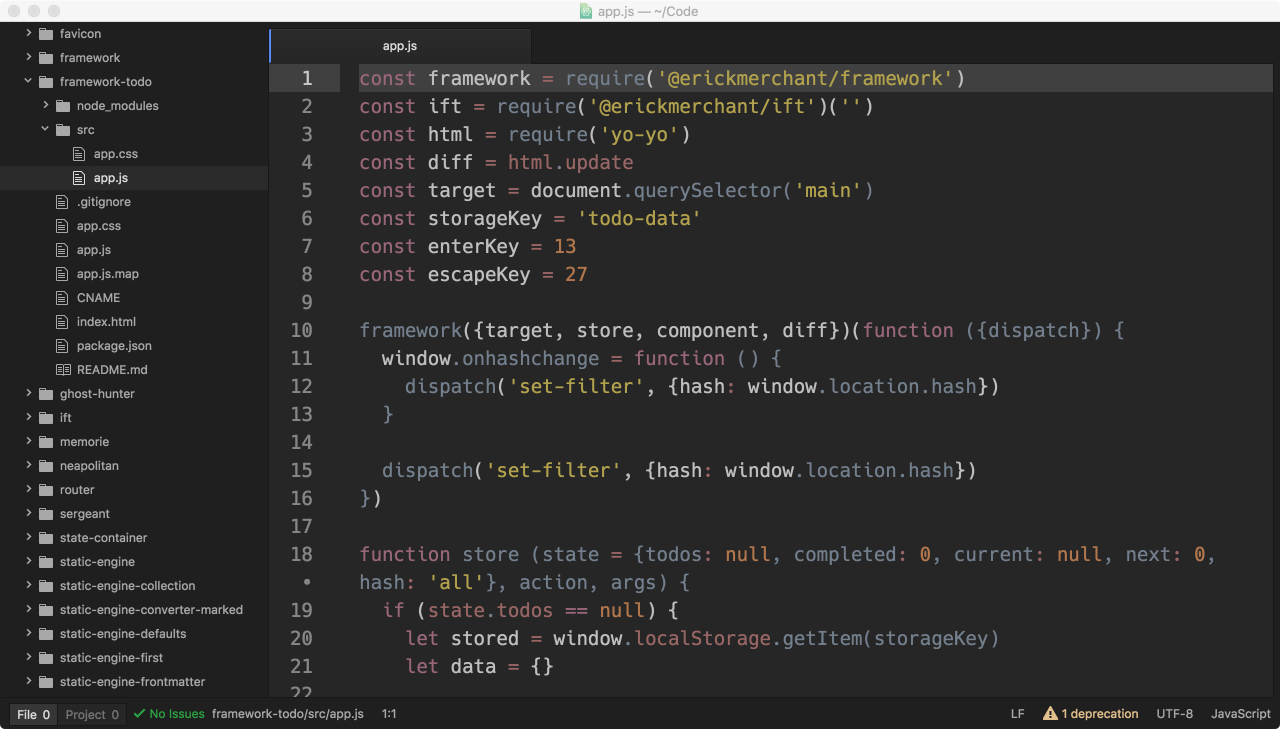
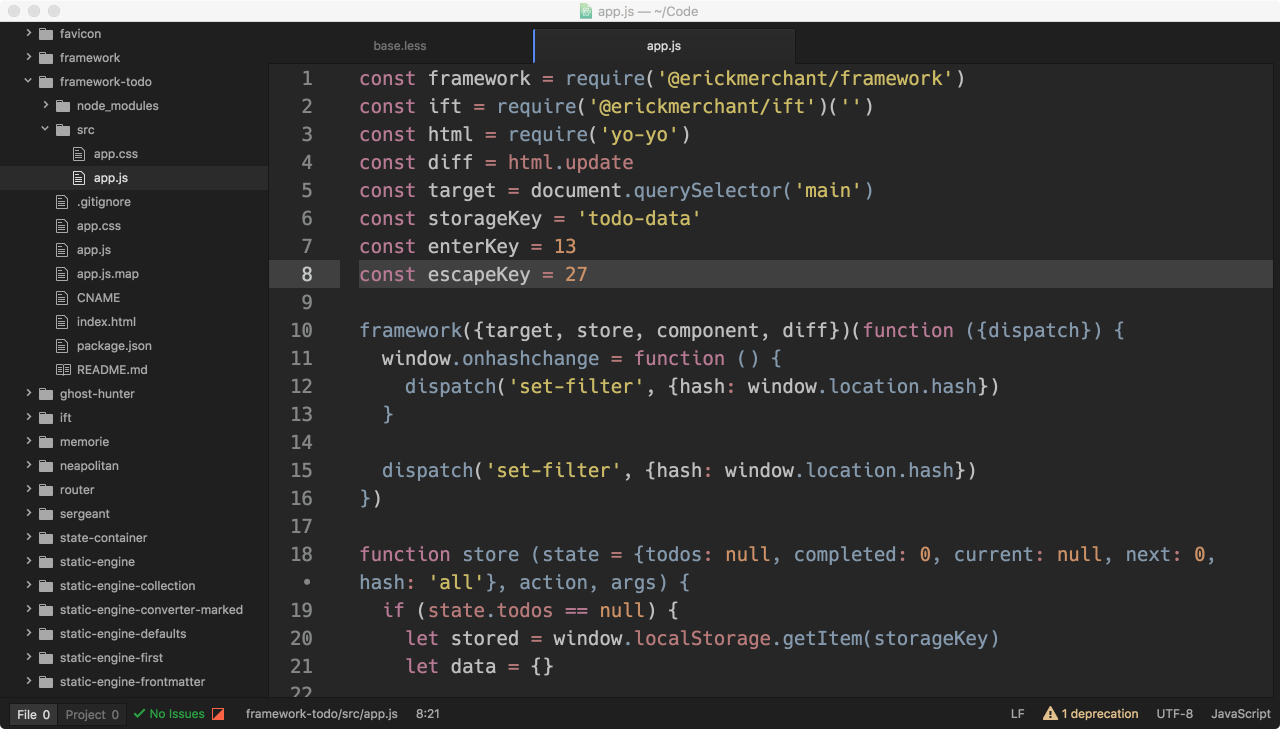
Improve readability

diff --git a/styles/base.less b/styles/base.less
@@ -83,7 +83,7 @@ atom-text-editor .search-results .marker.current-result .region {
 .syntax--function,
 .syntax--tag,
 .syntax--property-name {
-  color: hsl(210, 10%, 50%);
+  color: hsl(210, 20%, 60%);
 }
 
 .syntax--control,
@@ -93,7 +93,7 @@ atom-text-editor .search-results .marker.current-result .region {
 .syntax--instanceof,
 .syntax--typeof,
 .syntax--heading {
-  color: hsl(335, 20%, 50%);
+  color: hsl(335, 30%, 60%);
 }
 
 .syntax--attribute-name,
@@ -102,7 +102,7 @@ atom-text-editor .search-results .marker.current-result .region {
 .syntax--meta.syntax--structure.syntax--dictionary > .syntax--quoted,
 .syntax--meta.syntax--structure.syntax--dictionary > .syntax--quoted .syntax--string,
 .syntax--assignment {
-  color: hsl(0, 20%, 50%);
+  color: hsl(0, 30%, 60%);
 }
 
 .syntax--language,
@@ -110,7 +110,7 @@ atom-text-editor .search-results .marker.current-result .region {
 .syntax--boolean,
 .syntax--numeric,
 .syntax--unit {
-  color: hsl(25, 40%, 50%);
+  color: hsl(25, 50%, 60%);
 }
 
 .syntax--string,
@@ -118,12 +118,12 @@ atom-text-editor .search-results .marker.current-result .region {
 .syntax--link,
 .syntax--meta.syntax--structure.syntax--dictionary.syntax--value > .syntax--quoted,
 .syntax--meta.syntax--structure.syntax--dictionary.syntax--value > .syntax--quoted .syntax--string {
-  color: hsl(50, 40%, 50%);
+  color: hsl(50, 50%, 60%);
 }
 
 .syntax--comment,
 .syntax--raw {
-  color: hsl(0, 0%, 50%);
+  color: hsl(0, 0%, 60%);
 }
 
 .syntax--property-value {
